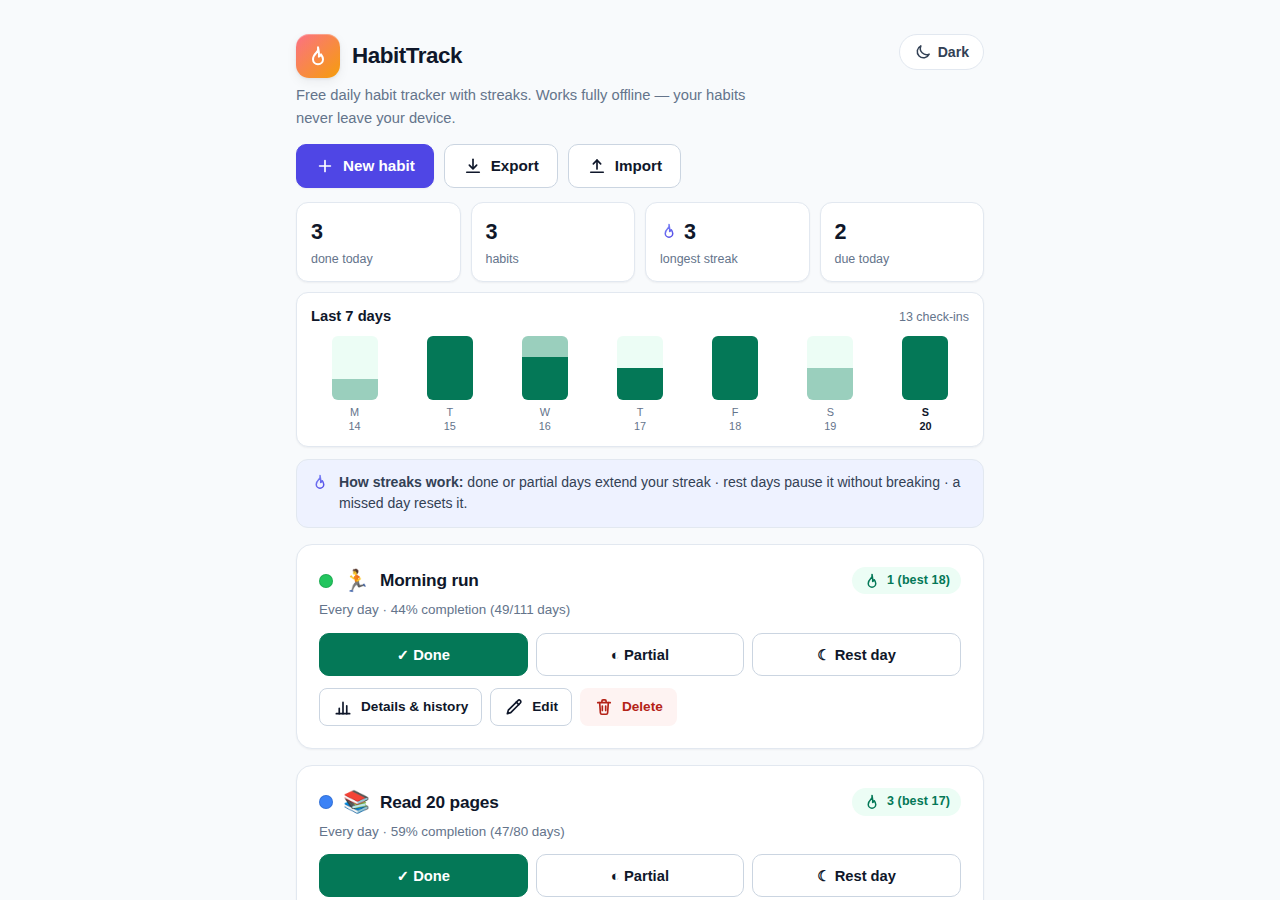
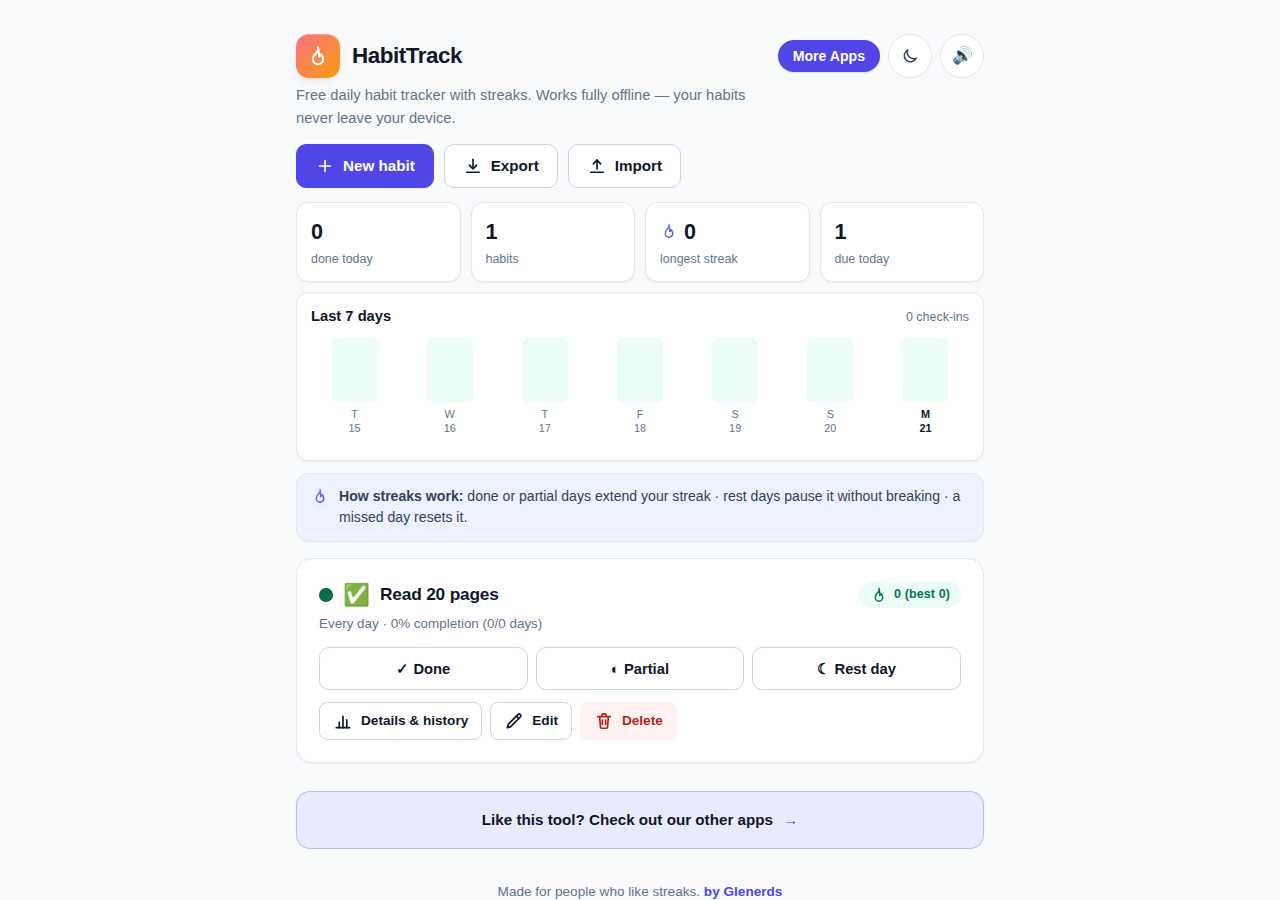
HabitTrack sweep baseline (header cluster, sounds, interactive week chart)

diff --git a/staging/published/habittrack/index.html b/staging/published/habittrack/index.html
@@ -170,22 +170,35 @@
 .g-brand-name { font-size: 1.4rem; font-weight: 800; letter-spacing: -0.02em; margin: 0; line-height: 1.15; }
 .g-tagline { color: var(--g-muted); font-size: 0.92rem; font-weight: 400; margin: 6px 0 14px; max-width: 56ch; }
 
-/* Theme toggle */
+/* Theme toggle + sound toggle: icon-only 44px circular buttons */
 .g-theme-toggle {
   flex: 0 0 auto;
-  display: inline-flex; align-items: center; gap: 6px;
+  display: inline-flex; align-items: center; justify-content: center;
+  width: 44px; height: 44px; min-width: 44px; min-height: 44px; padding: 0;
   background: var(--g-surface);
   border: 1px solid var(--g-border);
   color: var(--g-text-soft);
-  border-radius: var(--g-radius-pill);
-  padding: 8px 14px;
-  font-size: 0.88rem; font-weight: 600; font-family: var(--g-font);
+  border-radius: 999px;
   cursor: pointer;
   transition: border-color var(--g-ease), color var(--g-ease), transform var(--g-ease);
-  white-space: nowrap;
 }
 .g-theme-toggle:hover { border-color: var(--g-accent); color: var(--g-text); }
 .g-theme-toggle:active { transform: scale(0.97); }
+#sound-toggle {
+  flex: 0 0 auto;
+  display: inline-flex; align-items: center; justify-content: center;
+  width: 44px; height: 44px; min-width: 44px; min-height: 44px; padding: 0;
+  background: var(--g-surface);
+  border: 1px solid var(--g-border);
+  color: var(--g-text-soft);
+  border-radius: 999px;
+  font-size: 1.05rem; line-height: 1;
+  cursor: pointer;
+  transition: border-color var(--g-ease), color var(--g-ease), transform var(--g-ease);
+}
+#sound-toggle:hover { border-color: var(--g-accent); color: var(--g-text); }
+#sound-toggle:active { transform: scale(0.97); }
+#sound-toggle:focus-visible { outline: 2px solid var(--g-accent); outline-offset: 2px; }
 
 /* ---------- 5. TABS (segmented control) ---------- */
 .g-tabs {
@@ -589,6 +602,14 @@ a:focus-visible {
 .cell.partial{opacity:.6}
 .cell.skip{background:transparent;border:1px dashed var(--g-muted)}
 .cell:hover{outline:2px solid var(--g-accent)}
+.cell:focus-visible{outline:2px solid var(--g-accent); outline-offset:1px}
+/* Week-chart day columns are interactive: click/Enter/Space spotlights the day */
+.weekchart .wcd{cursor:pointer; border-radius:8px; padding:2px}
+.weekchart .wcd:hover .wctrack{outline:2px solid var(--g-accent)}
+.weekchart .wcd:focus-visible{outline:2px solid var(--g-accent); outline-offset:2px}
+.weekchart .wcd.sel .wctrack{outline:2px solid var(--g-accent)}
+.wc-detail{margin-top:10px; font-size:.85rem; color:var(--g-muted)}
+.wc-detail strong{color:var(--g-text)}
 .legend{display:flex;gap:6px;align-items:center;font-size:.75rem;color:var(--g-muted);margin-top:8px;flex-wrap:wrap}
 .modal-back{position:fixed;inset:0;background:rgba(2,6,12,.5);display:flex;align-items:center;justify-content:center;z-index:50;padding:16px}
 .modal{background:var(--g-surface);border:1px solid var(--g-border);border-radius:var(--g-radius-lg);padding:24px;max-width:480px;width:100%;max-height:90vh;overflow-y:auto;box-shadow:var(--g-shadow-lg)}
@@ -890,8 +911,9 @@ document.documentElement.setAttribute('data-theme',t);})();
     <div class="g-header-actions">
   <a class="g-store-btn" href="https://glenerds.gumroad.com" target="_blank" rel="noopener">More Apps</a>
 <button class="g-theme-toggle" id="themeBtn" aria-label="Toggle dark mode">
-      <svg class="g-icon g-icon-sm" aria-hidden="true"><use href="#g-i-moon" id="themeUse"/></svg><span id="themeLabel">Dark</span>
+      <svg class="g-icon g-icon-sm" aria-hidden="true"><use href="#g-i-moon" id="themeUse"/></svg>
     </button>
+    <button id="sound-toggle" type="button" aria-pressed="true" aria-label="Sound: on" title="Toggle sounds">&#128266;</button>
 </div>
   </header>
   <h2 class="g-tagline">Free daily habit tracker with streaks. Works fully offline — your habits never leave your device.</h2>
@@ -1122,7 +1144,11 @@ function completionRate(h){
 function applyTheme(t){
   document.documentElement.setAttribute("data-theme", t);
   document.getElementById("themeUse").setAttribute("href", t === "dark" ? "#g-i-sun" : "#g-i-moon");
-  document.getElementById("themeLabel").textContent = t === "dark" ? "Light" : "Dark";
+  const btn = document.getElementById("themeBtn");
+  const label = t === "dark" ? "Switch to light mode" : "Switch to dark mode";
+  btn.setAttribute("aria-label", label);
+  btn.title = label;
+  btn.setAttribute("aria-pressed", t === "dark" ? "true" : "false");
   try{ localStorage.setItem(THEME_KEY, t); }catch(e){}
 }
 function initTheme(){
@@ -1132,6 +1158,58 @@ function initTheme(){
     t = (window.matchMedia && window.matchMedia("(prefers-color-scheme: dark)").matches) ? "dark" : "light";
   }
   applyTheme(t);
+}
+/* ============ subtle sounds (Web Audio, no files, offline) ============ */
+const Sound = (() => {
+  const KEY = "habittrack.sound";
+  let on = true, ctx = null;
+  try{ if(localStorage.getItem(KEY) === "off") on = false; }catch(e){}
+  function ac(){
+    try{
+      if(!ctx){
+        const AC = window.AudioContext || window.webkitAudioContext;
+        if(!AC) return null;
+        ctx = new AC();
+      }
+      if(ctx.state === "suspended") ctx.resume();
+      return ctx;
+    }catch(e){ return null; }
+  }
+  function tone(freq, dur, type, vol, delay){
+    const c = ac(); if(!c) return;
+    try{
+      const t = c.currentTime + (delay || 0);
+      const o = c.createOscillator(), g = c.createGain();
+      o.type = type || "sine"; o.frequency.value = freq;
+      g.gain.setValueAtTime(0.0001, t);
+      g.gain.exponentialRampToValueAtTime(vol || 0.06, t + 0.01);
+      g.gain.exponentialRampToValueAtTime(0.0001, t + dur);
+      o.connect(g); g.connect(c.destination);
+      o.start(t); o.stop(t + dur + 0.05);
+    }catch(e){}
+  }
+  return {
+    isOn: () => on,
+    toggle(){ on = !on; try{ localStorage.setItem(KEY, on ? "on" : "off"); }catch(e){} return on; },
+    click(){ if(on) tone(520, 0.06, "sine", 0.045); },
+    select(){ if(on){ tone(660, 0.07, "sine", 0.055); tone(880, 0.09, "sine", 0.045, 0.06); } },
+    success(){ if(on){ tone(660, 0.09, "sine", 0.06); tone(990, 0.12, "sine", 0.05, 0.08); } },
+    error(){ if(on) tone(170, 0.16, "sawtooth", 0.045); },
+    toggleTheme(){ if(on) tone(440, 0.06, "triangle", 0.05); }
+  };
+})();
+function bindSoundToggle(){
+  const btn = document.getElementById("sound-toggle");
+  if(!btn) return;
+  function paint(){
+    const on = Sound.isOn();
+    btn.textContent = on ? "\uD83D\uDD0A" : "\uD83D\uDD07";
+    btn.setAttribute("aria-pressed", on ? "true" : "false");
+    btn.setAttribute("aria-label", "Sound: " + (on ? "on" : "off"));
+    btn.title = "Toggle sounds (" + (on ? "on" : "off") + ")";
+  }
+  btn.addEventListener("click", () => { Sound.toggle(); paint(); Sound.click(); });
+  paint();
 }
 /* ============ helpers ============ */
 function toast(msg){
@@ -1304,12 +1382,13 @@ function openDayEditor(hid, key){
       if(chosen === "skip") b.classList.add("skip-on");
     });
   });
-  document.getElementById("dayCancel").addEventListener("click", closeModal);
+  document.getElementById("dayCancel").addEventListener("click", () => { closeModal(); Sound.click(); });
   document.getElementById("daySave").addEventListener("click", () => {
     const n = document.getElementById("dayNote").value.trim().slice(0, 500);
     setEntry(hid, key, chosen, n);
     closeModal(); renderAll();
     toast("Saved");
+    Sound.success();
   });
 }
 
@@ -1351,15 +1430,15 @@ function openHabitEditor(existing){
     root.querySelectorAll("#hzIcons button").forEach(x => x.classList.remove("sel"));
     b.classList.add("sel"); icon = b.getAttribute("data-ic");
   }));
-  document.getElementById("hzCancel").addEventListener("click", closeModal);
+  document.getElementById("hzCancel").addEventListener("click", () => { closeModal(); Sound.click(); });
   document.getElementById("hzSave").addEventListener("click", () => {
     const name = document.getElementById("hzName").value.trim().slice(0, 60);
-    if(!name){ toast("Give the habit a name"); return; }
+    if(!name){ toast("Give the habit a name"); Sound.error(); return; }
     const type = root.querySelector('input[name="hztype"]:checked').value;
     let weekdays = [0,1,2,3,4,5,6];
     if(type === "weekly"){
       weekdays = Array.from(root.querySelectorAll("#hzDays input:checked")).map(x => Number(x.value));
-      if(weekdays.length === 0){ toast("Pick at least one day"); return; }
+      if(weekdays.length === 0){ toast("Pick at least one day"); Sound.error(); return; }
     }
     const allowPartial = document.getElementById("hzPartial").checked;
     if(existing){
@@ -1371,6 +1450,7 @@ function openHabitEditor(existing){
       toast("Habit created — good luck 🔥");
     }
     saveState(); closeModal(); renderAll();
+    Sound.success();
   });
 }
 
@@ -1391,27 +1471,29 @@ document.getElementById("habitList").addEventListener("click", e => {
     const tk = todayKey();
     const cur = entry(hid, tk);
     // tapping the active status again clears it (quick undo) — keep the note
-    if(cur && cur.status === act){ setEntry(hid, tk, null, cur.note || ""); }
-    else { const note = cur ? (cur.note || "") : ""; setEntry(hid, tk, act, note); }
+    if(cur && cur.status === act){ setEntry(hid, tk, null, cur.note || ""); Sound.click(); }
+    else { const note = cur ? (cur.note || "") : ""; setEntry(hid, tk, act, note); Sound.success(); }
     renderAll();
   }else if(act === "detail"){
     const box = document.getElementById("detail-" + hid);
     if(box.classList.contains("hidden")) renderDetail(hid);
     else box.classList.add("hidden");
+    Sound.click();
   }else if(act === "edit"){
-    openHabitEditor(h);
+    openHabitEditor(h); Sound.click();
   }else if(act === "del"){
     openModal(
       "<h2>Delete habit?</h2>" +
       '<p class="sub">“' + esc(h.name) + '” and all of its history will be removed from this device. This cannot be undone.</p>' +
       '<div class="g-btn-row"><button class="g-btn g-btn-danger" id="delYes">Delete</button><button class="g-btn g-btn-secondary" id="delNo">Keep it</button></div>'
     );
-    document.getElementById("delNo").addEventListener("click", closeModal);
+    document.getElementById("delNo").addEventListener("click", () => { closeModal(); Sound.click(); });
     document.getElementById("delYes").addEventListener("click", () => {
       state.habits = state.habits.filter(x => x.id !== hid);
       delete state.log[hid];
       saveState(); closeModal(); renderAll();
       toast("Habit deleted");
+      Sound.success();
     });
   }
 });
@@ -1500,9 +1582,10 @@ function importFile(file){
         d.habits.forEach(h => { keep[h.id] = true; });
         // full sanitize: repairs/drops bad dates, statuses, notes (same as loadState)
         const cleanLog = sanitizeLog(d.log, keep);
-        if(!window.confirm("Replace everything on this device with the backup (" + d.habits.length + " habits)?")) return;
+        if(!window.confirm("Replace everything on this device with the backup (" + d.habits.length + " habits)?")){ Sound.click(); return; }
         state = { habits: d.habits, log: cleanLog };
         saveState(); renderAll();
+        Sound.success();
         const skipParts = [];
         if(dropped) skipParts.push(dropped + " invalid");
         if(dupIds) skipParts.push(dupIds + " duplicate id");
@@ -1544,9 +1627,11 @@ function importFile(file){
         if(skipped) cskip.push(skipped + " unknown habit / bad date or status");
         if(ambiguous) cskip.push(ambiguous + " ambiguous duplicate-name");
         msg.innerHTML = '<p class="sub" style="color:var(--g-good)">✓ Merged ' + merged + " entries" + (cskip.length ? " (" + cskip.join("; ") + " skipped)" : "") + ".</p>";
+        Sound.success();
       }
     }catch(err){
       msg.innerHTML = '<p class="sub" style="color:var(--g-bad)">Import failed: ' + esc(err.message) + ". Nothing was changed.</p>";
+      Sound.error();
     }
   };
   reader.onerror = () => {
@@ -1558,30 +1643,83 @@ function importFile(file){
 function renderWeekChart(){
   const el = document.getElementById("weekChart");
   if(!el) return;
+  el.innerHTML = "";
   const now = new Date(), WD = ["S","M","T","W","T","F","S"];
-  let total = 0, bars = "";
+  let total = 0;
+  const head = document.createElement("div"); head.className = "wct";
+  const hb = document.createElement("b"); hb.textContent = "Last 7 days";
+  const hs = document.createElement("span");
+  head.appendChild(hb); head.appendChild(hs);
+  const body = document.createElement("div"); body.className = "wcb";
+  const days = [];
   for(let i=6;i>=0;i--){
     const d = new Date(now); d.setDate(d.getDate()-i);
     const key = localKey(d);
     let sched = 0, done = 0, part = 0;
+    const per = [];
     state.habits.forEach(h => {
       if(!isScheduled(h, d)) return;
       if(d < parseKey(h.created)) return; // don't show phantom misses before the habit existed
       sched++;
       const s = entryStatus(h.id, key);
+      per.push({ name: h.name, status: s });
       if(s === "done"){ done++; total++; }
       else if(s === "partial"){ part++; total++; }
     });
-    const dh = sched ? Math.round(done/sched*100) : 0;
-    const ph = sched ? Math.round(part/sched*100) : 0;
-    const title = key + ": " + done + " done, " + part + " partial of " + sched + " scheduled";
-    bars += '<div class="wcd"><div class="wctrack" title="' + esc(title) + '">'
-      + '<div class="wcdone" style="height:' + dh + '%"></div>'
-      + '<div class="wcpart" style="height:' + ph + '%"></div>'
-      + '</div><div class="wcl' + (i === 0 ? " today" : "") + '">' + WD[d.getDay()] + "<br>" + d.getDate() + "</div></div>";
+    days.push({ d, key, sched, done, part, per });
   }
-  el.innerHTML = '<div class="wct"><b>Last 7 days</b><span>' + total + " check-ins</span></div>"
-    + '<div class="wcb">' + bars + "</div>";
+  hs.textContent = total + " check-ins";
+  const detail = document.createElement("div");
+  detail.className = "wc-detail"; detail.setAttribute("aria-live", "polite");
+  let sel = null;
+  days.forEach((day, idx) => {
+    const dh = day.sched ? Math.round(day.done/day.sched*100) : 0;
+    const ph = day.sched ? Math.round(day.part/day.sched*100) : 0;
+    const lbl = fmtDay(day.key) + ": " + day.done + " done, " + day.part + " partial of " + day.sched + " scheduled";
+    const col = document.createElement("div");
+    col.className = "wcd";
+    col.setAttribute("tabindex", "0");
+    col.setAttribute("role", "button");
+    col.setAttribute("aria-pressed", "false");
+    col.setAttribute("aria-label", lbl + ". Activate to see per-habit detail.");
+    const track = document.createElement("div");
+    track.className = "wctrack"; track.title = lbl;
+    const doneBar = document.createElement("div");
+    doneBar.className = "wcdone"; doneBar.style.height = dh + "%";
+    const partBar = document.createElement("div");
+    partBar.className = "wcpart"; partBar.style.height = ph + "%";
+    track.appendChild(doneBar); track.appendChild(partBar);
+    const lab = document.createElement("div");
+    lab.className = "wcl" + (idx === days.length - 1 ? " today" : "");
+    lab.innerHTML = WD[day.d.getDay()] + "<br>" + day.d.getDate();
+    col.appendChild(track); col.appendChild(lab);
+    function act(){
+      if(sel === col){
+        col.classList.remove("sel"); col.setAttribute("aria-pressed", "false");
+        detail.textContent = ""; sel = null; Sound.click(); return;
+      }
+      if(sel){ sel.classList.remove("sel"); sel.setAttribute("aria-pressed", "false"); }
+      sel = col; col.classList.add("sel"); col.setAttribute("aria-pressed", "true");
+      detail.textContent = "";
+      const strong = document.createElement("strong");
+      strong.textContent = fmtDay(day.key) + ": ";
+      detail.appendChild(strong);
+      if(!day.per.length){
+        detail.appendChild(document.createTextNode("no habits scheduled."));
+      }else{
+        detail.appendChild(document.createTextNode(day.per.map(p =>
+          p.name + " — " + (p.status === "done" ? "done" : p.status === "partial" ? "partial" : p.status === "skip" ? "rest day" : "missed")
+        ).join("; ") + "."));
+      }
+      Sound.select();
+    }
+    col.addEventListener("click", act);
+    col.addEventListener("keydown", e => {
+      if(e.key === "Enter" || e.key === " "){ e.preventDefault(); act(); }
+    });
+    body.appendChild(col);
+  });
+  el.appendChild(head); el.appendChild(body); el.appendChild(detail);
 }
 
 /* ============ init ============ */
@@ -1589,19 +1727,22 @@ function renderAll(){ renderStats(); renderWeekChart(); renderList(); }
 
 document.getElementById("themeBtn").addEventListener("click", () => {
   applyTheme(document.documentElement.getAttribute("data-theme") === "dark" ? "light" : "dark");
+  Sound.toggleTheme();
 });
-document.getElementById("newHabitBtn").addEventListener("click", () => openHabitEditor(null));
+document.getElementById("newHabitBtn").addEventListener("click", () => { openHabitEditor(null); Sound.click(); });
 document.getElementById("exportBtn").addEventListener("click", () => {
   document.getElementById("ioCard").classList.remove("hidden");
   document.getElementById("impMsg").innerHTML = "";
   document.getElementById("ioCard").scrollIntoView({behavior:"smooth", block:"nearest"});
+  Sound.click();
 });
 document.getElementById("importBtn").addEventListener("click", () => {
   document.getElementById("ioCard").classList.remove("hidden");
   document.getElementById("impMsg").innerHTML = "";
+  Sound.click();
 });
-document.getElementById("expJson").addEventListener("click", exportJson);
-document.getElementById("expCsv").addEventListener("click", exportCsv);
+document.getElementById("expJson").addEventListener("click", () => { exportJson(); Sound.success(); });
+document.getElementById("expCsv").addEventListener("click", () => { exportCsv(); Sound.success(); });
 document.getElementById("impFile").addEventListener("change", e => {
   if(e.target.files && e.target.files[0]) importFile(e.target.files[0]);
   e.target.value = "";
@@ -1610,6 +1751,7 @@ document.getElementById("impFile").addEventListener("change", e => {
 loadState();
 initTheme();
 renderAll();
+bindSoundToggle();
 </script>
 </body>
 </html>

diff --git a/staging/published/habittrack/CHANGES.md b/staging/published/habittrack/CHANGES.md
@@ -1,5 +1,11 @@
 # HabitTrack — Changes
 
+## 2026-09-21 — Retroactive sweep baseline (Glenerds sweep, build phase)
+- Standardized the header cluster: More Apps pill, icon-only dark-mode button (44x44px, moon/sun icon, aria-label + title, no text label), new icon-only sound toggle (44x44px, 🔊/🔇) at the far right.
+- Added the standard WebAudio sound engine (oscillator-only, no audio files, offline): click/select/success/error/toggleTheme, on by default, persisted at `habittrack.sound`, wired into theme toggle, done/partial/rest taps, day-editor save, habit create/update/delete, detail toggle, and export/import.
+- Made the "Last 7 days" chart interactive: each day column is a keyboard-accessible button — activating it spotlights the day and shows a per-habit detail line (done/partial/rest day/missed per habit); activating again restores.
+- Heatmap cells now have a visible focus style (accent outline) matching their hover state, so keyboard users get the same affordance as mouse users.
+
 ## 2026-09-20 — Data-hardening + visual pass (verification round)
 - Fixed: malformed stored habits (weekdays as string, missing `created`, null entries)
   could throw on load and brick the habit list. Storage is now sanitized on load:
